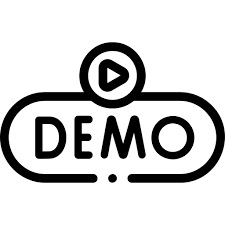
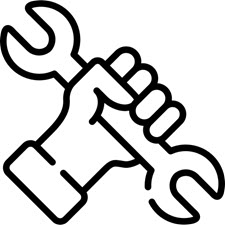
img replaced

diff --git a/docs/index.md b/docs/index.md
@@ -30,14 +30,14 @@ title: Home
   </div>
 
   <div class="md-cell md-cell--4">
-    <a href="../HVS/Demo videos">
+    <a href="../HVS/Installation Guide">
       <div class="md-card">
         <div class="md-card__media md-card__media--16:9">
           <img src="../HVS/assets/images/tile3.jpg" alt="HVS Videos" style="max-width: 100%;">
         </div>
         <div class="md-card__content">
-          <h2 class="md-card__title">Demo videos</h2>
-          <p class="md-card__description">This tile belongs to HVS walkthrough videos</p>
+          <h2 class="md-card__title">Installation Guide</h2>
+          <p class="md-card__description">This tile belongs to HVS installation guide</p>
         </div>
       </div>
     </a>
